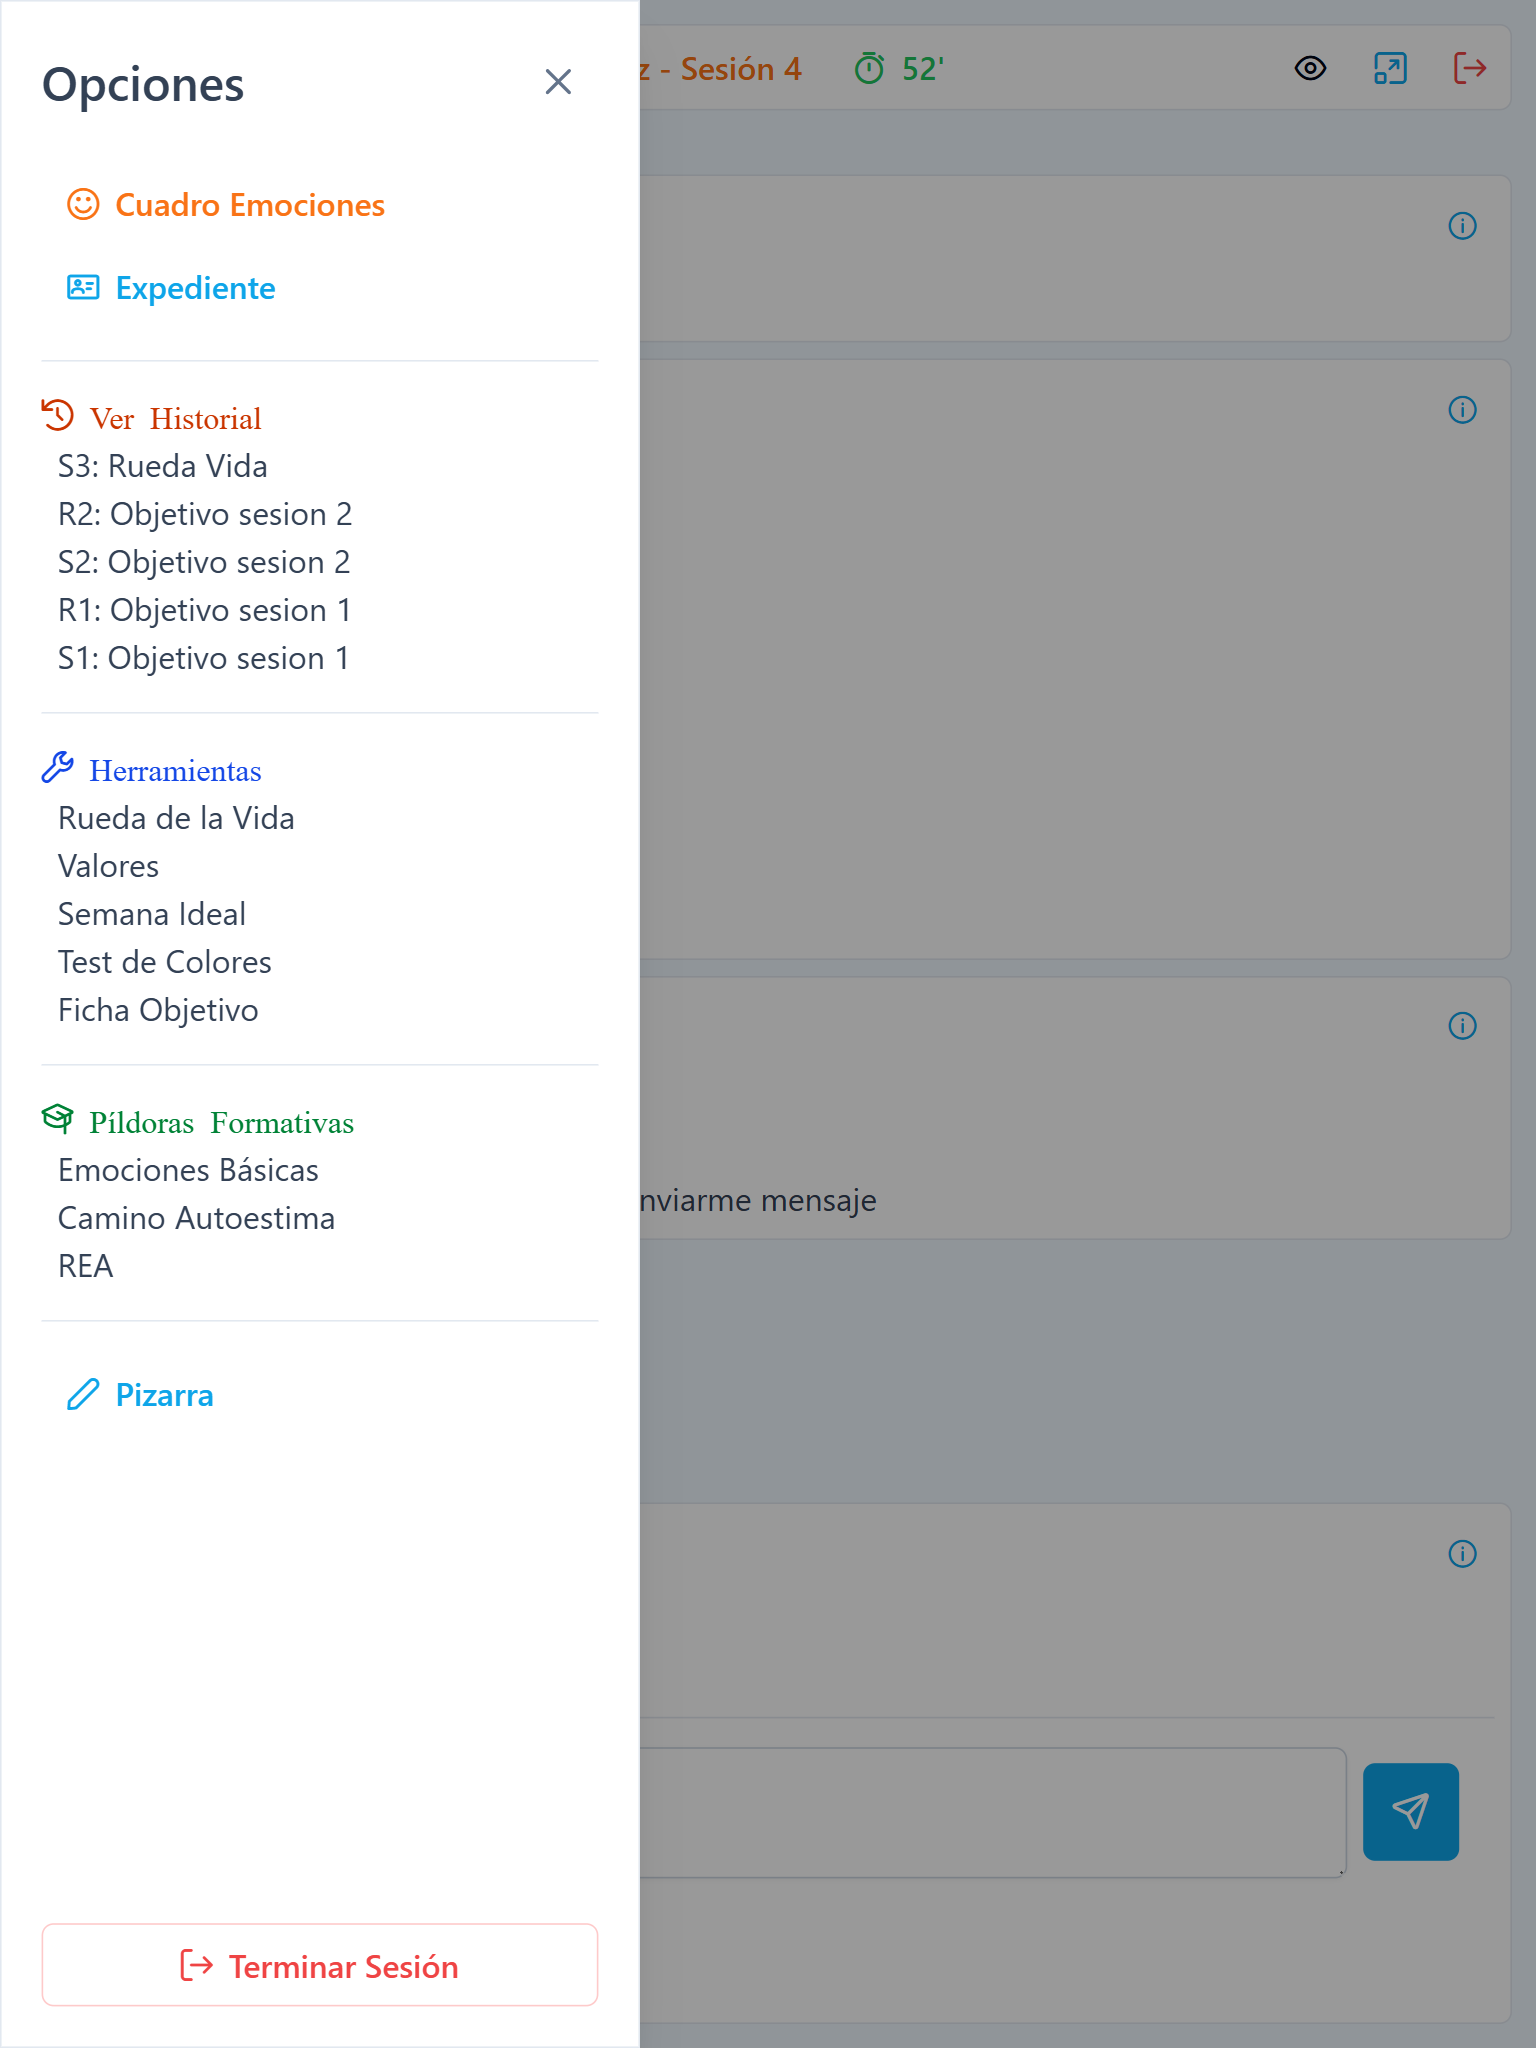
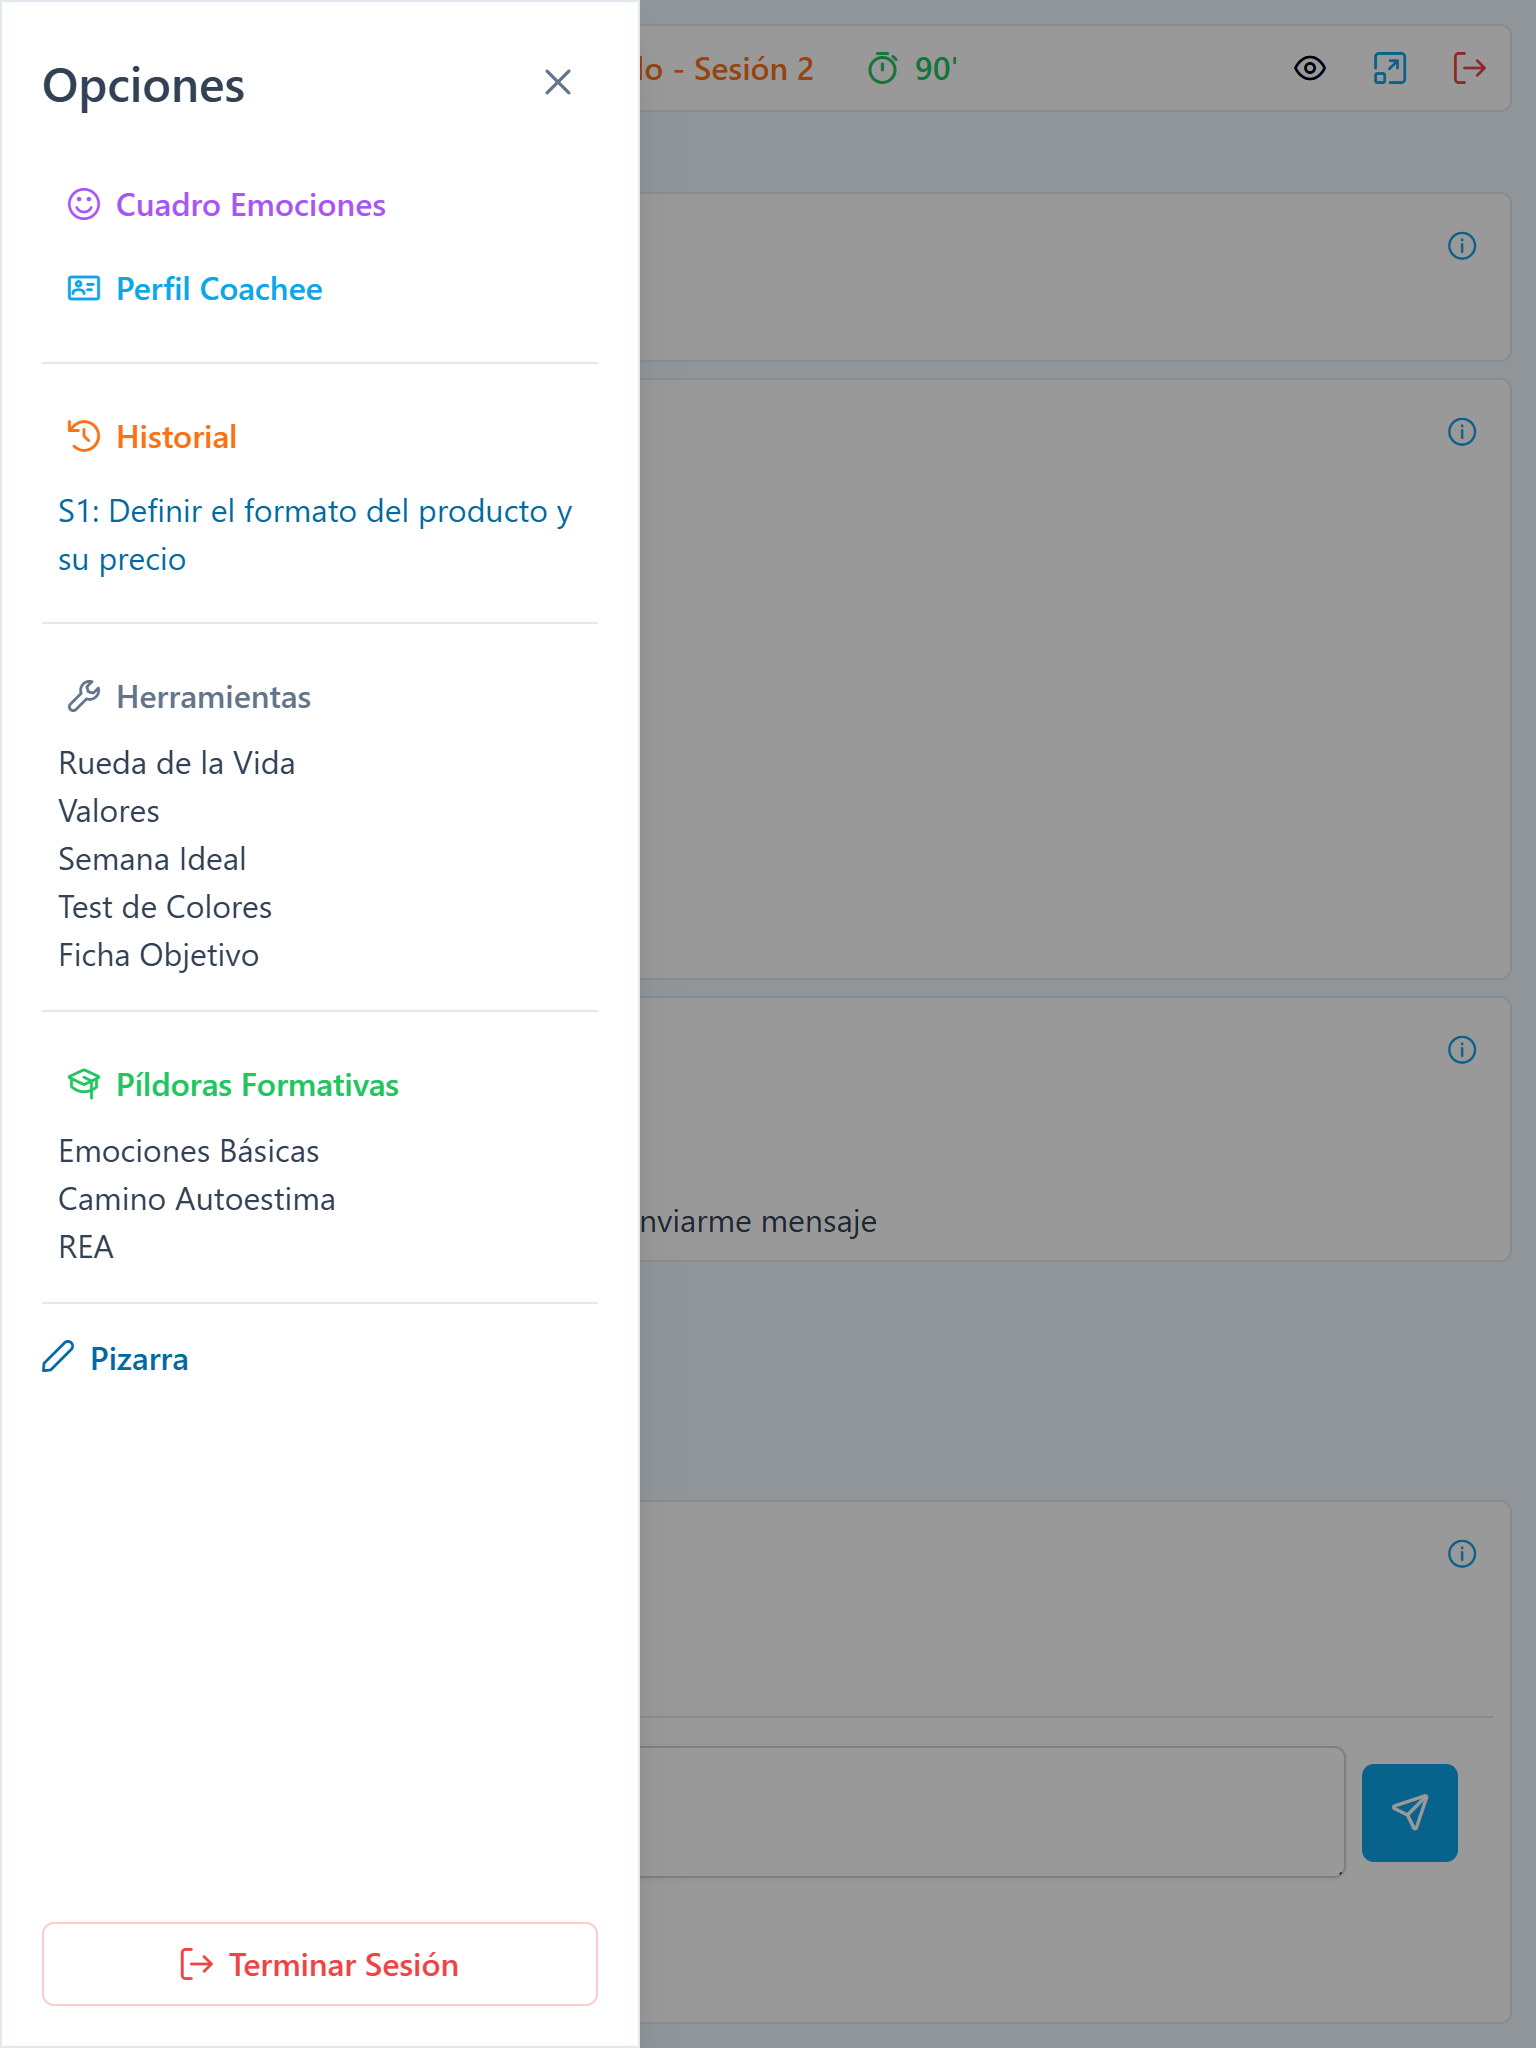
docs: updated README with profile screen #80

diff --git a/frontend/src/app/session/session.html b/frontend/src/app/session/session.html
@@ -89,7 +89,7 @@
     <p-drawer [(visible)]="visible" header="Opciones">
         <p-button class="w-full" icon="pi pi-face-smile" text label="Cuadro Emociones" severity="help"
             (onClick)="showDialogEmotions()" />
-        <p-button class="w-full" icon="pi pi-id-card" text label="Expediente" (onClick)="showProfile()" />
+        <p-button class="w-full" icon="pi pi-id-card" text label="Perfil Coachee" (onClick)="showProfile()" />
         <p-divider />
         <p-button class="w-full" icon="pi pi-history" text label="Historial" severity="warn" />
         <ul class="list-none p-0 m-0">

diff --git a/frontend/src/app/session/coachee-profile/coachee-profile.html b/frontend/src/app/session/coachee-profile/coachee-profile.html
@@ -21,7 +21,7 @@
         <span>{{this.coachee()?.company_address}}</span>
     </div>
 
-    <div class="flex justify-center gap-2 mt-8">
+    <div class="flex justify-end gap-2 mt-8">
         <p-button label="Cerrar" (onClick)="close()" />
     </div>
 </p-dialog>

diff --git a/README.md b/README.md
@@ -95,6 +95,7 @@ En resumen, Coach Asistant permite maximizar la recogida de datos y tratarlos co
   <img src="docs/images/session-notes.png" width="300" style="vertical-align: top;">
   <img src="docs/images/session-menu.png" width="300" style="vertical-align: top;">
   <img src="docs/images/session-emotions.png" width="300" style="vertical-align: top;">
+  <img src="docs/images/session-profile.png" width="300" style="vertical-align: top;">
 </div>
 
 #### Resumen

diff --git a/docs/NOTAS.md b/docs/NOTAS.md
@@ -67,7 +67,7 @@
     - [x] LOPD firmada
     - [x] RGPD firmada
 
-- [ ] Pantalla Perfil Coachee
+- [ ] Pantalla Coachee
   - [x] Boton crear proceso
   - [x] boton ver proceso
   - [ ] Menu lateral
